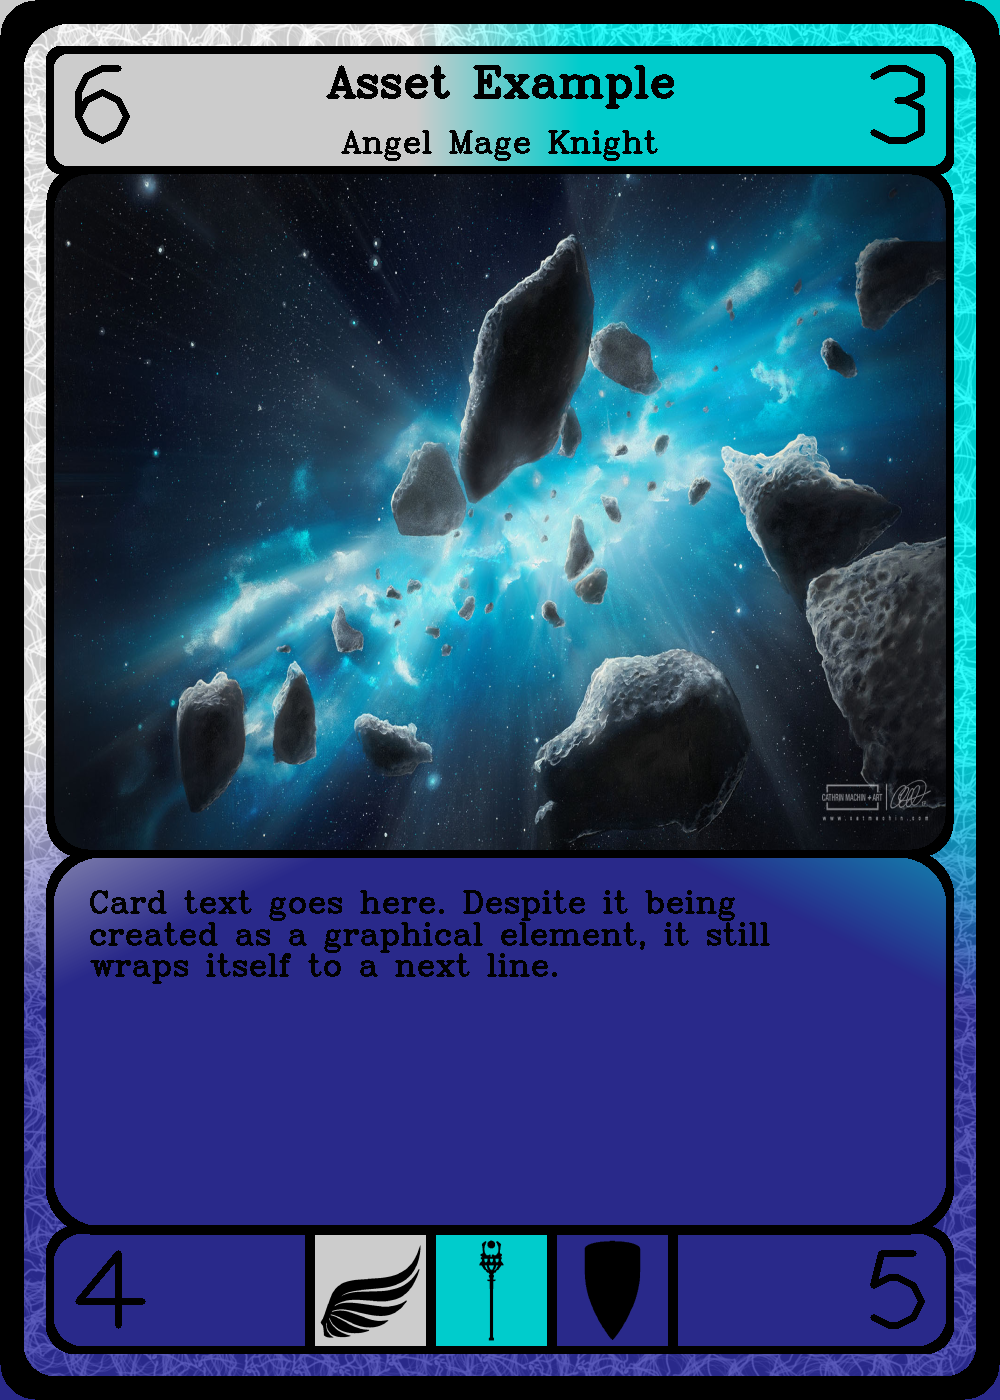
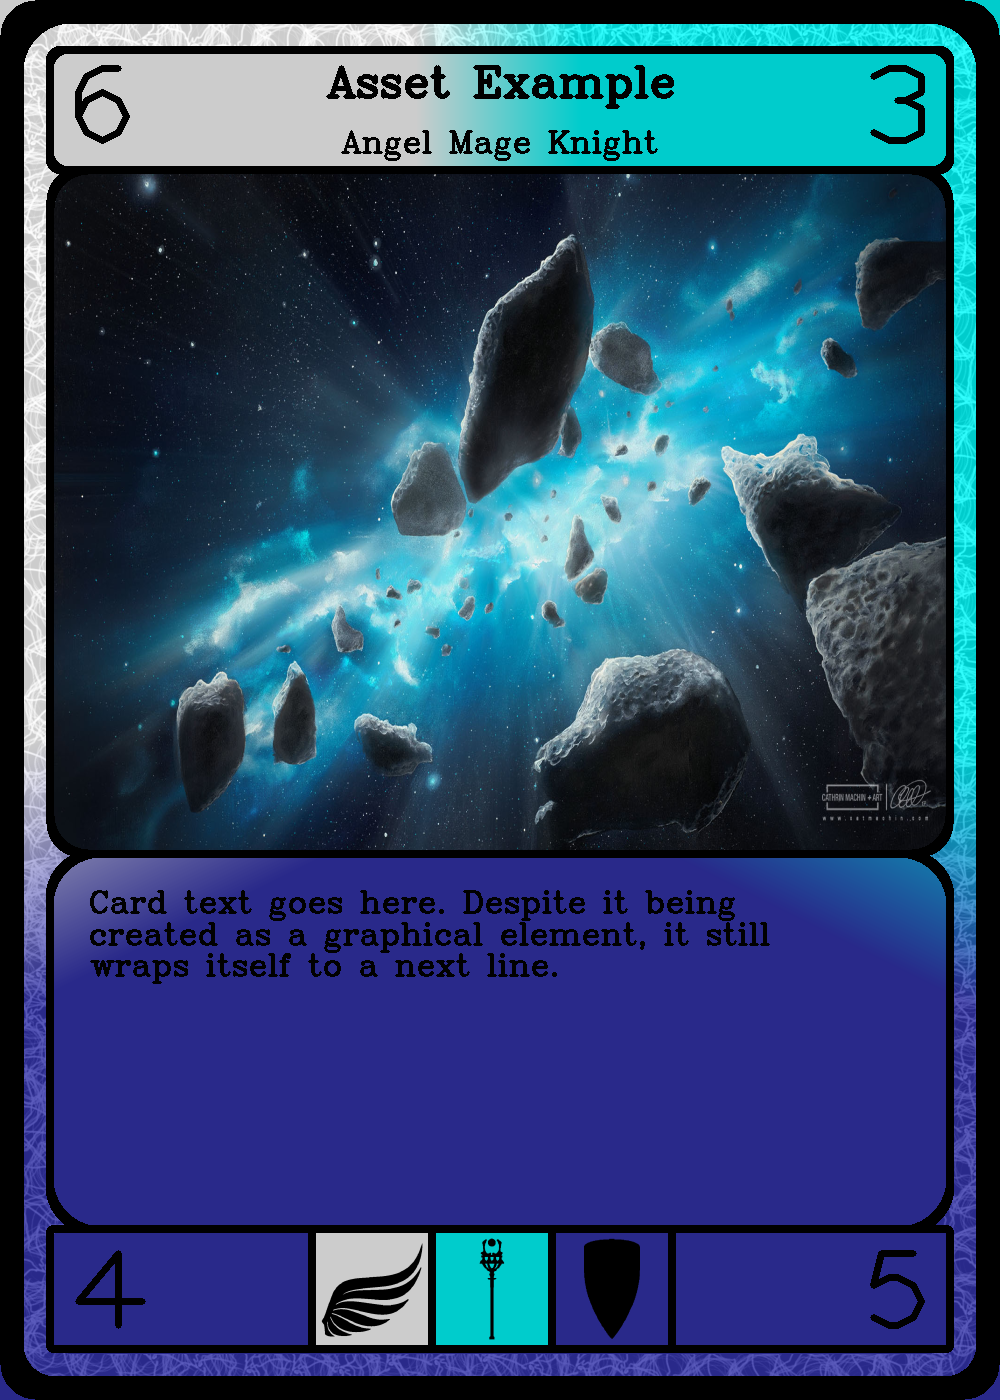
Border thickness fix

diff --git a/RogueProject.py b/RogueProject.py
@@ -53,10 +53,10 @@ ALLEGIENCE_HEIGHT = int(130/1400 * CARD_HEIGHT)
 TRICOLOR_TRIANGLE_VERTICE_HEIGHT1 = 450 * SCALING_FACTOR
 TRICOLOR_TRIANGLE_VERTICE_HEIGHT2 = 325 * SCALING_FACTOR
 
-LOGO_WIDTH = int(55.5 * SCALING_FACTOR)
-LOGO_HEIGHT = int(55.5 * SCALING_FACTOR)
+LOGO_WIDTH = int(56 * SCALING_FACTOR)
+LOGO_HEIGHT = int(56 * SCALING_FACTOR)
 
-LOGO_POSITION_H = int(1235 / 1400 * CARD_HEIGHT)
+LOGO_POSITION_H = int(1233 / 1400 * CARD_HEIGHT)
 
 LINE_SPACE_HEIGHT = 1
 
@@ -489,8 +489,8 @@ def create_card(card_template_path, border_template_path, creature_image_path, s
         logo = replace_color(logo, [8, 255, 0], [0, 0, 0], 3)
         logo = replace_color(logo, [255, 255, 255], [COLOUR_DICT[allegiences[i]][0], COLOUR_DICT[allegiences[i]][1], COLOUR_DICT[allegiences[i]][2]], 3)
         logo = cv.resize(logo, (LOGO_WIDTH, LOGO_HEIGHT), interpolation = cv.INTER_AREA)
-        logo = cv.copyMakeBorder(logo.copy(), 0, 0, int(5 * SCALING_FACTOR), int(5 * SCALING_FACTOR), cv.BORDER_CONSTANT, None, (0, 0, 0, 255))
-        image9 = add_two_images(image9, logo, (int(CARD_WIDTH // 2 - len(allegiences) * (LOGO_WIDTH//2 + 5 * SCALING_FACTOR) + i * (LOGO_WIDTH + 5 * SCALING_FACTOR)), LOGO_POSITION_H))
+        logo = cv.copyMakeBorder(logo.copy(), 0, 0, int(4 * SCALING_FACTOR), int(4 * SCALING_FACTOR), cv.BORDER_CONSTANT, None, (0, 0, 0, 255))
+        image9 = add_two_images(image9, logo, (int(CARD_WIDTH // 2 - len(allegiences) * (LOGO_WIDTH//2 + 4 * SCALING_FACTOR) + i * (LOGO_WIDTH + 4 * SCALING_FACTOR)), LOGO_POSITION_H))
 
     image9[:, :, 3] = 255
 
